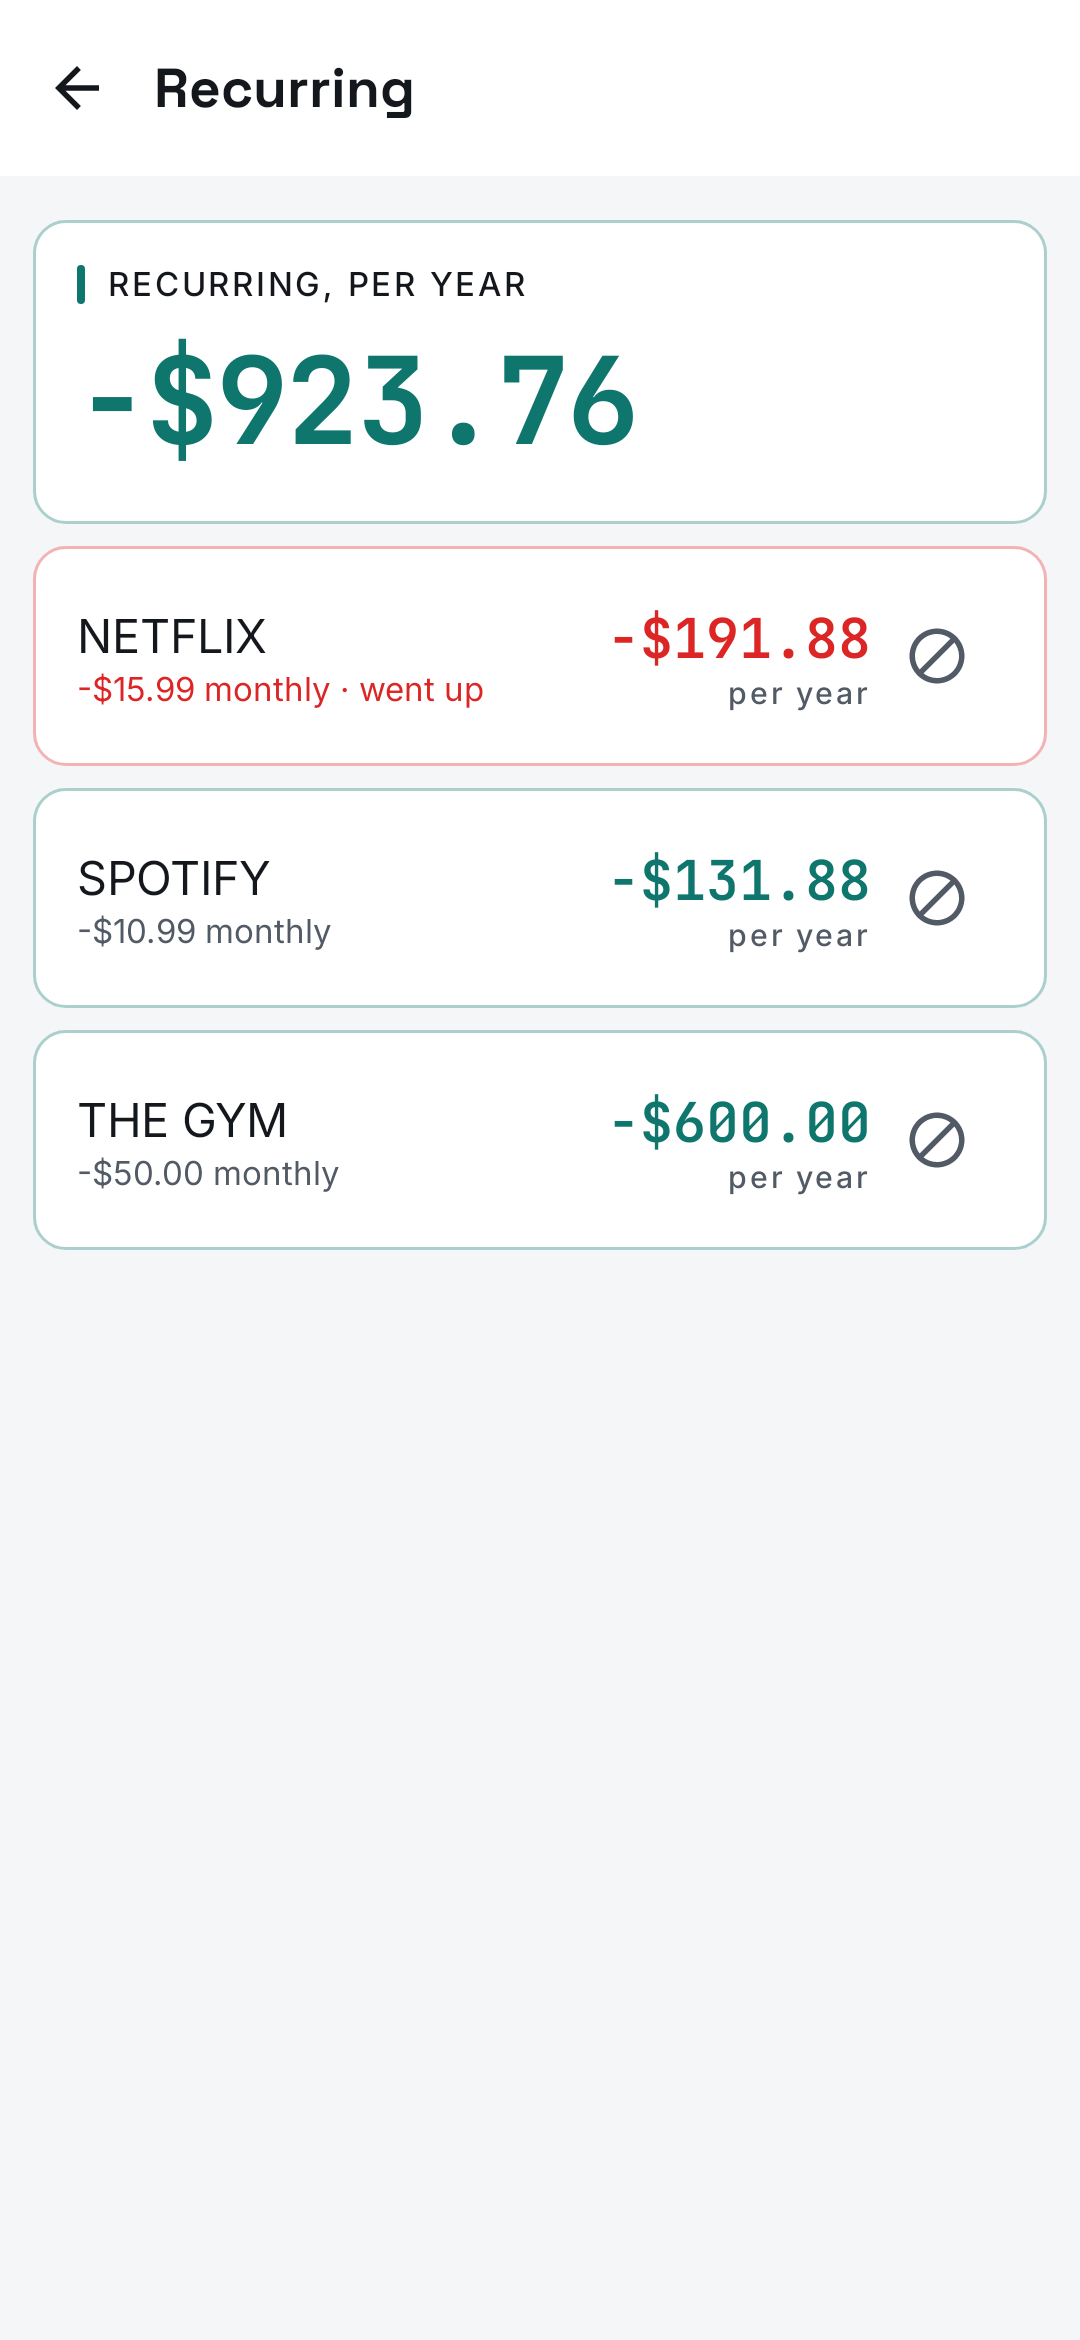
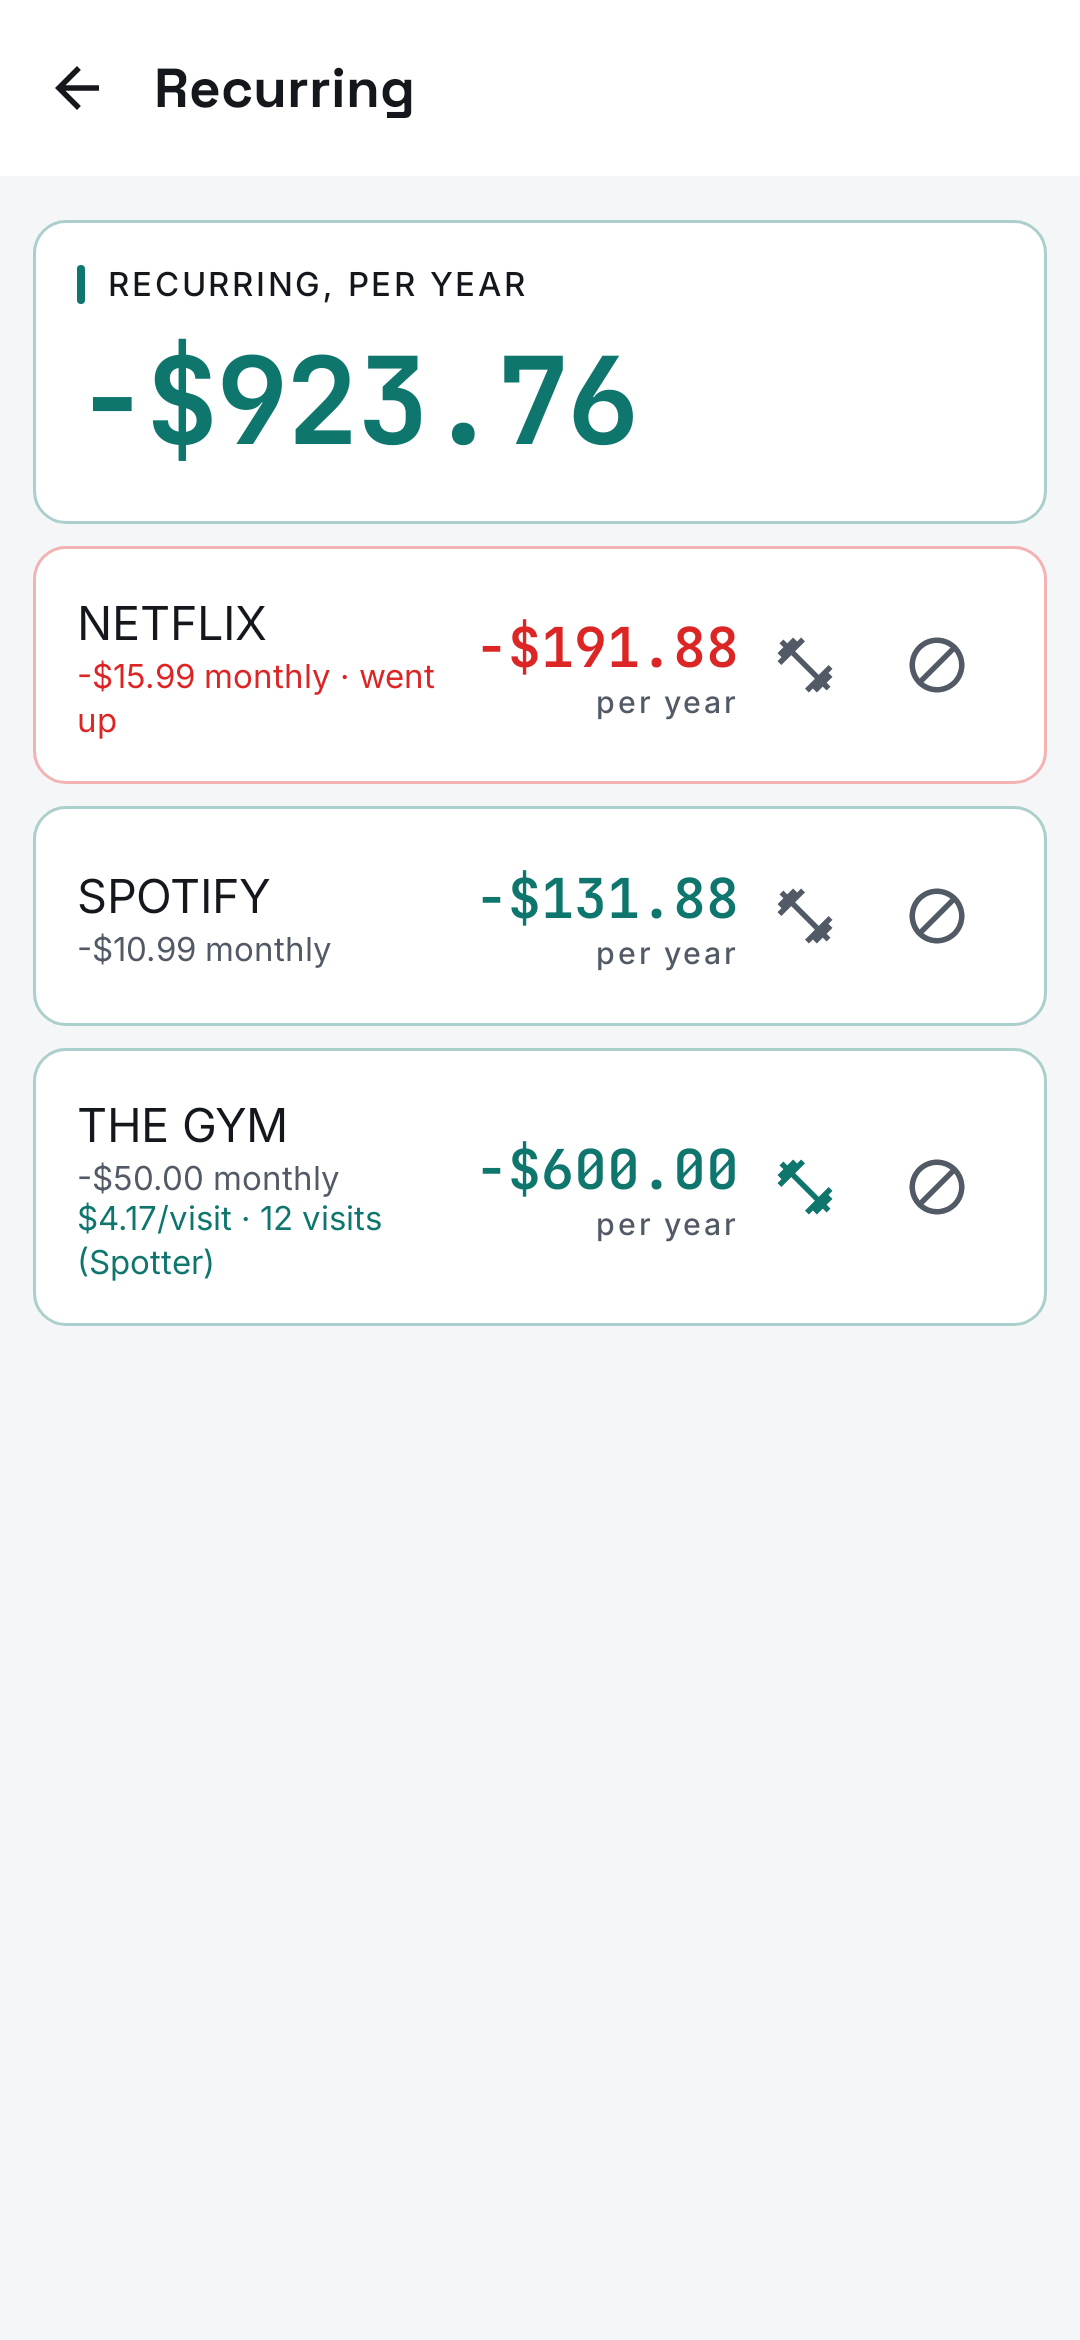
feat(magpie-android): gym cost-per-visit + fitness tag toggle (Link G)
Subscription cards get a FitnessCenter toggle; tagging a membership shows Spotter's line
"$4.17/visit · 12 visits (Spotter)" (bare count at 0 visits, nothing when Spotter is quiet).
Wires POST/DELETE /subscriptions/tag; screenshot goldens re-recorded. Compiles; tests green.

Claude-Session: https://claude.ai/code/session_01UufPD57t3qDabpVXgrh2dX

Changed region(s): [[0.0306, 0.2496, 0.9778, 0.5615], [0.9472, 0.5303, 0.9778, 0.5615]]

diff --git a/android/app/src/main/java/com/magpie/ui/subscriptions/SubscriptionsScreen.kt b/android/app/src/main/java/com/magpie/ui/subscriptions/SubscriptionsScreen.kt
@@ -15,6 +15,7 @@ import androidx.compose.material.icons.Icons
 import androidx.compose.material.icons.filled.ArrowBack
 import androidx.compose.material.icons.filled.Autorenew
 import androidx.compose.material.icons.filled.Block
+import androidx.compose.material.icons.filled.FitnessCenter
 import androidx.compose.material3.CircularProgressIndicator
 import androidx.compose.material3.ExperimentalMaterial3Api
 import androidx.compose.material3.Icon
@@ -52,6 +53,7 @@ fun SubscriptionsScreen(navController: NavController) {
         state = state,
         onBack = { navController.popBackStack() },
         onMute = viewModel::mute,
+        onToggleFitness = viewModel::toggleFitness,
     )
 }
 
@@ -61,6 +63,7 @@ internal fun SubscriptionsContent(
     state: SubscriptionsUiState,
     onBack: () -> Unit,
     onMute: (merchant: String) -> Unit = {},
+    onToggleFitness: (merchant: String, currentlyTagged: Boolean) -> Unit = { _, _ -> },
 ) {
     Scaffold(
         topBar = {
@@ -91,7 +94,11 @@ internal fun SubscriptionsContent(
                 else -> LazyColumn(modifier = Modifier.padding(MagpieTheme.spacing.md)) {
                     item { AnnualTotalCard(state.totalAnnualCostCents) }
                     items(state.subscriptions) { sub ->
-                        SubscriptionCard(sub, onMute = { onMute(sub.merchant) })
+                        SubscriptionCard(
+                            sub,
+                            onMute = { onMute(sub.merchant) },
+                            onToggleFitness = { tagged -> onToggleFitness(sub.merchant, tagged) },
+                        )
                     }
                 }
             }
@@ -115,10 +122,15 @@ private fun AnnualTotalCard(totalAnnualCents: Long) {
 }
 
 @Composable
-private fun SubscriptionCard(sub: SubscriptionOut, onMute: () -> Unit) {
+private fun SubscriptionCard(
+    sub: SubscriptionOut,
+    onMute: () -> Unit,
+    onToggleFitness: (currentlyTagged: Boolean) -> Unit = {},
+) {
     // A charge above its usual is flagged (the price-hike signal, #22); teal otherwise.
     val hiked = sub.lastAmountCents > sub.typicalAmountCents * 11 / 10
     val channel = if (hiked) MagpieTheme.colors.overBudget.base else MagpieTheme.colors.money.base
+    val fitnessTagged = sub.tags.contains("fitness")
     PanelCard(channel = channel, modifier = Modifier.fillMaxWidth().padding(vertical = 4.dp)) {
         Row(
             modifier = Modifier.fillMaxWidth(),
@@ -133,12 +145,32 @@ private fun SubscriptionCard(sub: SubscriptionOut, onMute: () -> Unit) {
                     style = MaterialTheme.typography.bodySmall,
                     color = if (hiked) channel else MaterialTheme.colorScheme.onSurfaceVariant,
                 )
+                // Link G: cost-per-visit from Spotter, once the merchant is fitness-tagged.
+                fitnessVisitLabel(sub)?.let { label ->
+                    Text(
+                        label,
+                        style = MaterialTheme.typography.bodySmall,
+                        color = MaterialTheme.colorScheme.primary,
+                    )
+                }
             }
             Column(horizontalAlignment = Alignment.End) {
                 DataText(text = formatCents(-sub.annualCostCents), style = Pulse.dataType.dataSmall,
                     color = channel)
                 Text("per year", style = MaterialTheme.typography.labelSmall,
                     color = MaterialTheme.colorScheme.onSurfaceVariant)
+            }
+            // Link G: tag/untag as a fitness membership to surface (or hide) $/visit from Spotter.
+            IconButton(onClick = { onToggleFitness(fitnessTagged) }) {
+                Icon(
+                    Icons.Default.FitnessCenter,
+                    contentDescription = if (fitnessTagged) "Remove fitness tag" else "Tag as gym",
+                    tint = if (fitnessTagged) {
+                        MaterialTheme.colorScheme.primary
+                    } else {
+                        MaterialTheme.colorScheme.onSurfaceVariant
+                    },
+                )
             }
             // #12: dismiss a false positive (weekly gas, a person, a double-counted mortgage).
             IconButton(onClick = onMute) {
@@ -149,5 +181,19 @@ private fun SubscriptionCard(sub: SubscriptionOut, onMute: () -> Unit) {
                 )
             }
         }
+    }
+}
+
+/** The Spotter line under a fitness-tagged subscription (Link G): cost-per-visit when we have both
+ *  a cost and visits, the bare count at 0 visits (paying, not going), and nothing when Spotter was
+ *  quiet (visits null) — the tag is still on, the number just isn't in yet. */
+private fun fitnessVisitLabel(sub: SubscriptionOut): String? {
+    if (!sub.tags.contains("fitness")) return null
+    val visits = sub.visitsThisMonth ?: return null
+    val perVisit = sub.costPerVisitCents
+    return if (perVisit != null) {
+        "${formatCents(perVisit)}/visit · $visits visits (Spotter)"
+    } else {
+        "$visits visits this month (Spotter)"
     }
 }

diff --git a/android/app/src/main/java/com/magpie/ui/subscriptions/SubscriptionsViewModel.kt b/android/app/src/main/java/com/magpie/ui/subscriptions/SubscriptionsViewModel.kt
@@ -5,6 +5,7 @@ import androidx.lifecycle.viewModelScope
 import com.magpie.data.remote.ApiService
 import com.magpie.data.remote.MuteMerchantRequest
 import com.magpie.data.remote.SubscriptionOut
+import com.magpie.data.remote.TagMerchantRequest
 import dagger.hilt.android.lifecycle.HiltViewModel
 import javax.inject.Inject
 import kotlinx.coroutines.flow.MutableStateFlow
@@ -62,5 +63,23 @@ class SubscriptionsViewModel @Inject constructor(
                 load() // put it back if the mute didn't take
             }
         }
+    }
+
+    /** Toggle the "fitness" tag on a merchant (Link G). Reloads afterward so the server can attach
+     *  (or drop) this month's Spotter visit count and cost-per-visit. */
+    fun toggleFitness(merchant: String, currentlyTagged: Boolean) {
+        viewModelScope.launch {
+            try {
+                val req = TagMerchantRequest(merchant, FITNESS_TAG)
+                if (currentlyTagged) api.untagMerchant(req) else api.tagMerchant(req)
+                load()
+            } catch (e: Exception) {
+                _state.value = _state.value.copy(error = e.message ?: "Couldn't update the tag")
+            }
+        }
+    }
+
+    private companion object {
+        const val FITNESS_TAG = "fitness"
     }
 }

diff --git a/android/app/src/main/java/com/magpie/data/remote/LedgerDtos.kt b/android/app/src/main/java/com/magpie/data/remote/LedgerDtos.kt
@@ -187,6 +187,10 @@ data class BudgetOut(
 @Serializable
 data class MuteMerchantRequest(val merchant: String)
 
+/** Body for POST/DELETE /subscriptions/tag (Link G). v1 tag: "fitness". */
+@Serializable
+data class TagMerchantRequest(val merchant: String, val tag: String)
+
 // --- AI budget coach ---
 
 @Serializable
@@ -417,6 +421,11 @@ data class SubscriptionOut(
     @SerialName("last_date") val lastDate: String,
     @SerialName("last_amount_cents") val lastAmountCents: Long,
     @SerialName("annual_cost_cents") val annualCostCents: Long,
+    // User tags (Link G). v1: "fitness".
+    val tags: List<String> = emptyList(),
+    // Spotter decoration for fitness-tagged rows (Link G); null when not tagged / Spotter quiet.
+    @SerialName("visits_this_month") val visitsThisMonth: Int? = null,
+    @SerialName("cost_per_visit_cents") val costPerVisitCents: Long? = null,
 )
 
 @Serializable

diff --git a/android/app/src/main/java/com/magpie/data/remote/ApiService.kt b/android/app/src/main/java/com/magpie/data/remote/ApiService.kt
@@ -6,6 +6,7 @@ import okhttp3.ResponseBody
 import retrofit2.http.Body
 import retrofit2.http.DELETE
 import retrofit2.http.GET
+import retrofit2.http.HTTP
 import retrofit2.http.Multipart
 import retrofit2.http.PATCH
 import retrofit2.http.POST
@@ -173,6 +174,13 @@ interface ApiService {
     // #12: mark a merchant "not a subscription" — drops it from the screen and both sweeps.
     @POST("subscriptions/mute")
     suspend fun muteSubscription(@Body req: MuteMerchantRequest)
+
+    // Link G: tag a merchant (v1 "fitness") to show Spotter cost-per-visit; DELETE removes it.
+    @POST("subscriptions/tag")
+    suspend fun tagMerchant(@Body req: TagMerchantRequest)
+
+    @HTTP(method = "DELETE", path = "subscriptions/tag", hasBody = true)
+    suspend fun untagMerchant(@Body req: TagMerchantRequest)
 
     @POST("chat")
     suspend fun chat(@Body req: ChatRequest): ChatResponse

diff --git a/android/app/src/test/java/com/magpie/screenshot/ScreenshotTest.kt b/android/app/src/test/java/com/magpie/screenshot/ScreenshotTest.kt
@@ -679,7 +679,11 @@ private fun SubscriptionsScene() {
             subscriptions = listOf(
                 SubscriptionOut("NETFLIX", "monthly", 1599, 12, "2026-07-01", 1899, 19188),
                 SubscriptionOut("SPOTIFY", "monthly", 1099, 10, "2026-07-01", 1099, 13188),
-                SubscriptionOut("THE GYM", "monthly", 5000, 8, "2026-06-15", 5000, 60000),
+                // Fitness-tagged: shows Spotter's cost-per-visit line (Link G).
+                SubscriptionOut(
+                    "THE GYM", "monthly", 5000, 8, "2026-06-15", 5000, 60000,
+                    tags = listOf("fitness"), visitsThisMonth = 12, costPerVisitCents = 417,
+                ),
             ),
             totalAnnualCostCents = 92376,
             loading = false,

diff --git a/android/app/src/test/java/com/magpie/data/repository/TransactionRepositorySyncTest.kt b/android/app/src/test/java/com/magpie/data/repository/TransactionRepositorySyncTest.kt
@@ -189,6 +189,10 @@ private class FakeApi : ApiService {
     override suspend fun getSubscriptions(): SubscriptionsOut = error("unused")
     override suspend fun muteSubscription(req: com.magpie.data.remote.MuteMerchantRequest) =
         error("unused")
+    override suspend fun tagMerchant(req: com.magpie.data.remote.TagMerchantRequest) =
+        error("unused")
+    override suspend fun untagMerchant(req: com.magpie.data.remote.TagMerchantRequest) =
+        error("unused")
 
     override suspend fun chat(req: ChatRequest): ChatResponse = error("unused")
 